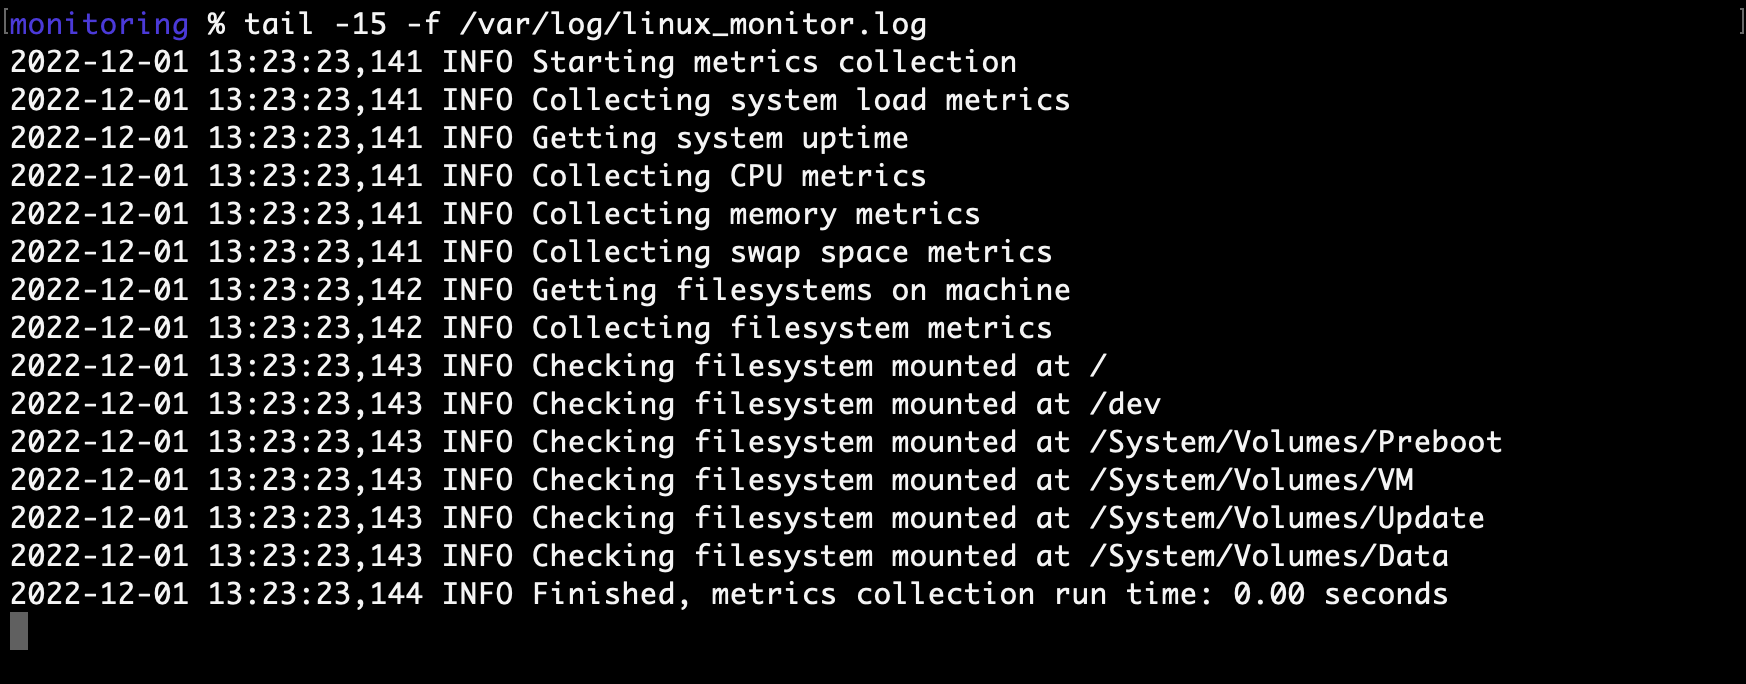
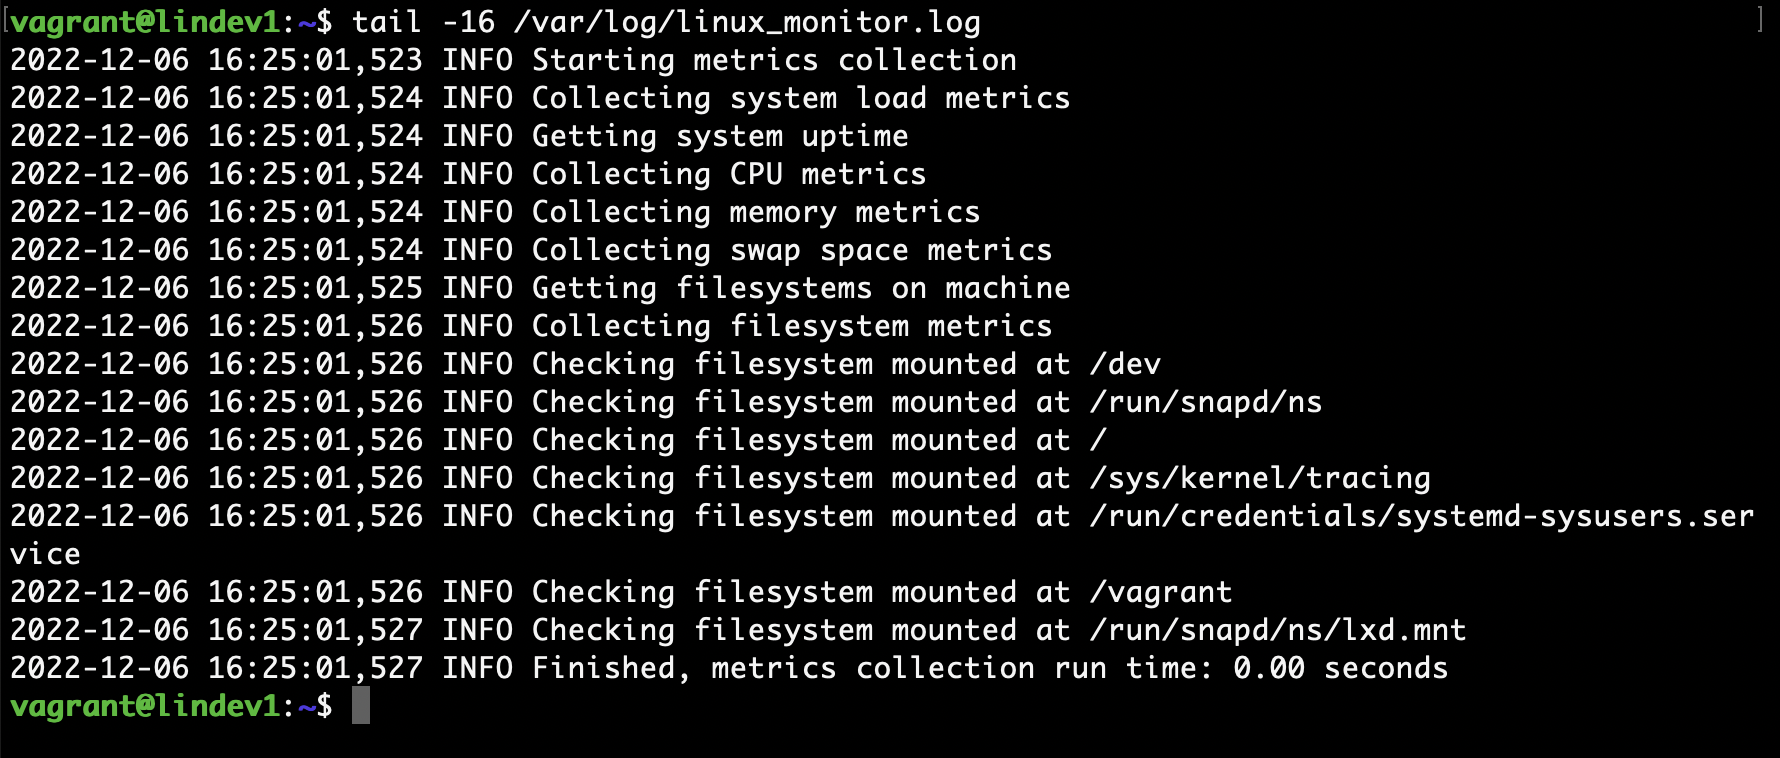
Add filesystem types to ignore_fstype list, update sample output screenshots

Changed region(s): [[0.0, 0.0, 0.9897, 0.9518], [0.9897, 0.0, 1.0, 0.0614]]

diff --git a/linux_monitor.py b/linux_monitor.py
@@ -213,8 +213,8 @@ class SystemMetrics:
         self.get_filesystem_ignore_patterns()
         self.compile_filesystem_ignore_regex()
         logging.info("Getting filesystems on machine")
-        ignore_fstype = ['autofs','binfmt_misc','cgroup','configfs','debugfs','devpts','efivarfs','fusectl',
-                         'hugetlbfs','mqueue','proc','pstore','securityfs','selinuxfs','sysfs']
+        ignore_fstype = ['autofs','binfmt_misc','bpf','cgroup','cgroup2','configfs','debugfs','devpts','efivarfs',
+                         'fusectl','hugetlbfs','mqueue','proc','pstore','securityfs','selinuxfs','squashfs','sysfs']
         try:
             filesystems = psutil.disk_partitions(True)
         except:

diff --git a/README.md b/README.md
@@ -1,3 +1,4 @@
 ## System monitoring
 
+![linux_monitor_output](readme_images/linux_monitor_output_800.png)
 ![tail_linux_monitor_log](readme_images/tail_linux_monitor_log_800.png)
